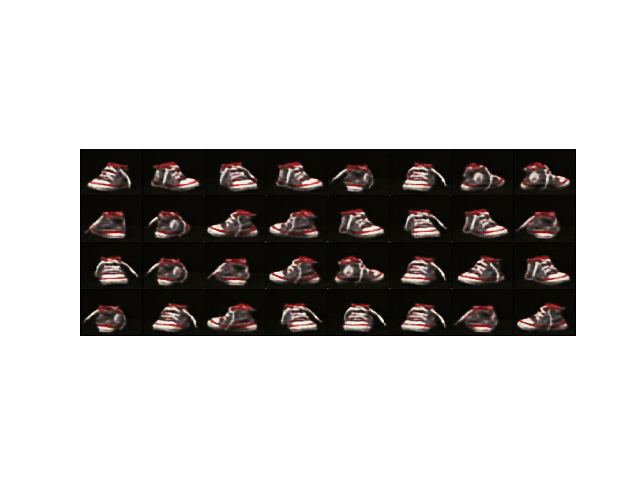
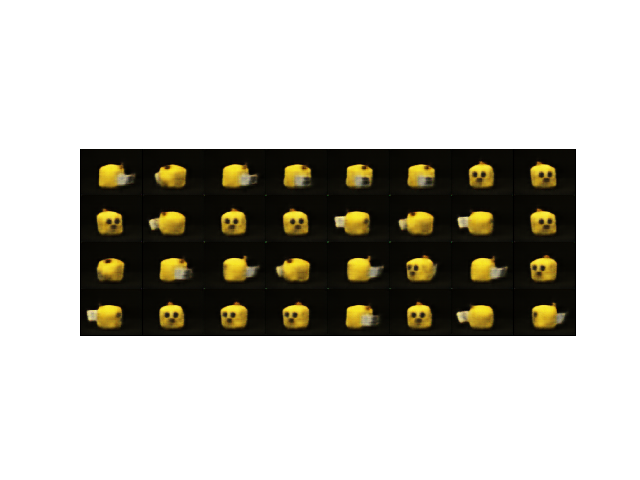
editing shell

diff --git a/generate_fake_dataset.py b/generate_fake_dataset.py
@@ -4,7 +4,7 @@ import matplotlib.pyplot as plt
 
 if __name__ == '__main__':
     action_space = [-180, -135, -90, -45, 45, 90, 135, 180]
-    images_path = './data/shoe_dataset/9_r'
+    images_path = './data/toy_dataset/15_r'
     current_object_pose = 0
     dataset = {}
     dataset['action_space'] = action_space
@@ -15,7 +15,7 @@ if __name__ == '__main__':
         action = action_space[action_index]
         prev_observation_pos = current_object_pose
         next_observation, current_object_pose = get_fake_next_observation(current_object_pose, action, dataset_path=images_path, stochastic=True, sigma=20)
-        print(i, prev_observation_pos, action, action_index, current_object_pose)
+        #print(i, prev_observation_pos, action, action_index, current_object_pose)
         data.append([prev_observation_pos, action, action_index, current_object_pose])
     data = np.array(data)
     np.savez('./data/atg_dataset', data=data, action_space = action_space, images_path=images_path)

diff --git a/train_autoencoder.py b/train_autoencoder.py
@@ -38,7 +38,8 @@ def main():
             optimizer.step()
             running_loss += loss.data
             if batch_index % 100:
-                print('avg loss: ', running_loss/((batch_index + 1)*batch_size), (batch_index + 1)*batch_size)
+                #print('avg loss: ', running_loss/((batch_index + 1)*batch_size), (batch_index + 1)*batch_size)
+                pass
     if not os.path.exists('./weights'):
         os.mkdir('./weights')
 
@@ -48,6 +49,6 @@ def main():
     dataiter = iter(test_loader)
     (in_images, _, _) = dataiter.next()
     decoded_imgs = autoencoder(to_var(in_images))
-    imshow(torchvision.utils.make_grid(decoded_imgs.data))
+    imshow(torchvision.utils.make_grid(decoded_imgs.data), True)
 if __name__ =='__main__':
     main()

diff --git a/train_aspect_transition.py b/train_aspect_transition.py
@@ -54,8 +54,8 @@ def main():
             if batch_index % 10==0:
                 training_loss_history.append(running_loss/((batch_index + 1)*batch_size))
                 training_acc_history.append(correct/total)
-                print('training loss: ', running_loss/((batch_index + 1)*batch_size), (batch_index + 1)*batch_size)
-                print('training acc : ', 100.*correct/total)
+                #print('training loss: ', running_loss/((batch_index + 1)*batch_size), (batch_index + 1)*batch_size)
+                #print('training acc : ', 100.*correct/total)
 
     if not os.path.exists('./weights'):
         os.mkdir('./weights')

diff --git a/utils.py b/utils.py
@@ -207,7 +207,7 @@ def get_encoder_feature(args):
     file_name = os.path.join('./data/tmp/encoder_feats/','encoder_feats_'+str(i)+'.npy')
     np.save(file_name, encoder_feat.data.numpy())
 
-    print('Done Processing image [' + str(i) + ']')
+    #print('Done Processing image [' + str(i) + ']')
 
     return [file_name, i]
 def preprocess_image_atg(image):
